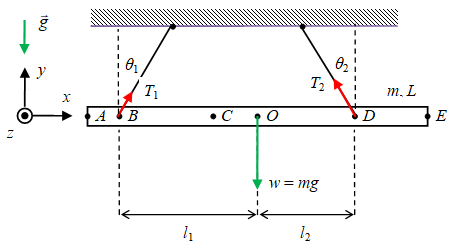
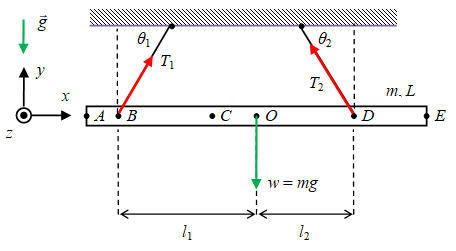
upd 0001

diff --git a/_posts/phys/2020-11-09-statics-beam-horiz-hang-ceil-diag-wire-2.md b/_posts/phys/2020-11-09-statics-beam-horiz-hang-ceil-diag-wire-2.md
@@ -12,10 +12,10 @@ tags: ["statics"]
 date: 2020-11-09 20:54:00 +07
 permalink: /physics/statics-beam-horiz-hang-ceil-diag-wire-2
 ---
-A uniform beam is hung horizontally from ceiling through two wires attached at some positions on the beam, where each wire has different angle with vertical direction. It is a simpler case of a horizontal beam suspended by two cables, where a person standing on one of the end of the beam [[1](#ref1)].
+A uniform beam is hung horizontally from ceiling through two wires attached at some positions on the beam, where each wire has different angle with horizontal direction. It is a simpler case of a horizontal beam suspended by two cables, where a person standing on one of the end of the beam [[1](#ref1)].
 
 ## Problem
-An uniform beam is supported horizontally by two wires attached to ceiling, where each wire has different angle with vertical direction as shown in following Fig. <a href="#fig:shbar-vwire2-0">1</a>. The beam is in a stable condition.
+An uniform beam is supported horizontally by two wires attached to ceiling, where each wire has different angle with horizontal direction as shown in following Fig. <a href="#fig:shbar-vwire2-0">1</a>. The beam is in a stable condition.
 
 {:refdef: style="text-align: center;"}
 ![horizontal beam suspended by two vertical wires](/assets/img/phys/hbar-dwire2-0.png)
@@ -23,7 +23,7 @@ An uniform beam is supported horizontally by two wires attached to ceiling, wher
 Figure <a name="fig:shbar-vwire2-0">1</a> A beam supported horizontally by two vertical wires.
 {: refdef}
 
-Tension of left wire is marked as $T_1$, while tension of the other wire is marked as $T_2$. Length of the beam is $L$ and its mass is $m$. Point $O$ is position of center of the mass of the beam. Distance of point $B$ from point $O$ is $l_1$ and distance of point $D$ from point $O$ is $l_2$. If angle of the left wire with vertical direction is $\theta_1$ and angle of the right wire with vertical direction is $\theta_2$, find tension formulation of $T_1$ and $T_2$ as function of the other parameters.
+Tension of left wire is marked as $T_1$, while tension of the other wire is marked as $T_2$. Length of the beam is $L$ and its mass is $m$. Point $O$ is position of center of the mass of the beam. Distance of point $B$ from point $O$ is $l_1$ and distance of point $D$ from point $O$ is $l_2$. If angle of the left wire with horizontal direction is $\theta_1$ and angle of the right wire with horizontal direction is $\theta_2$, find tension formulation of $T_1$ and $T_2$ as function of the other parameters.
 
 {% comment %}
 
